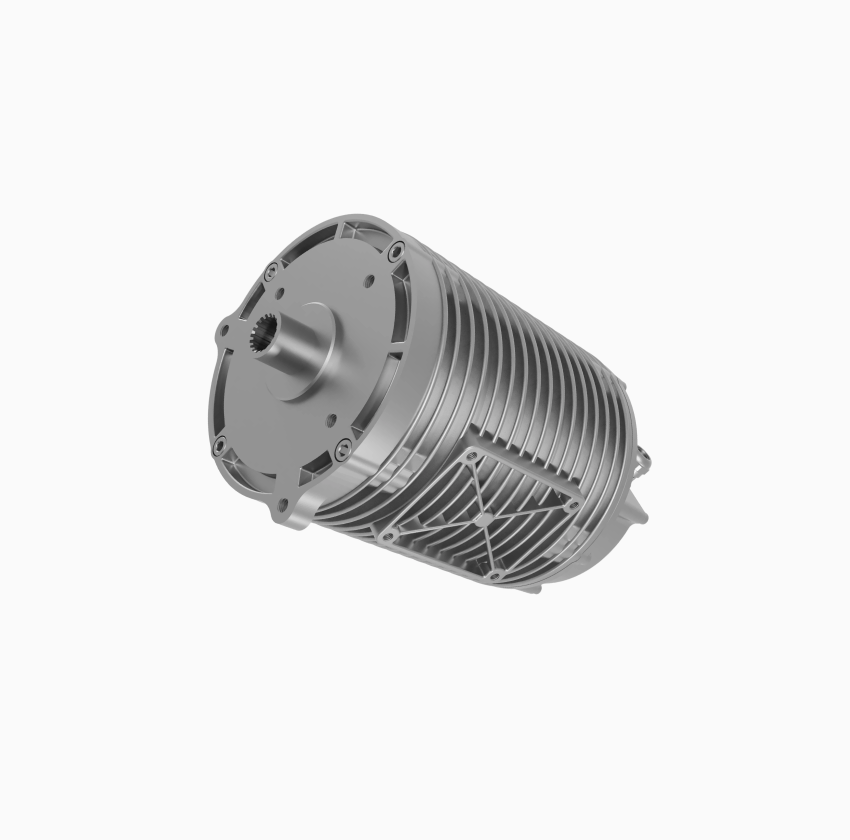
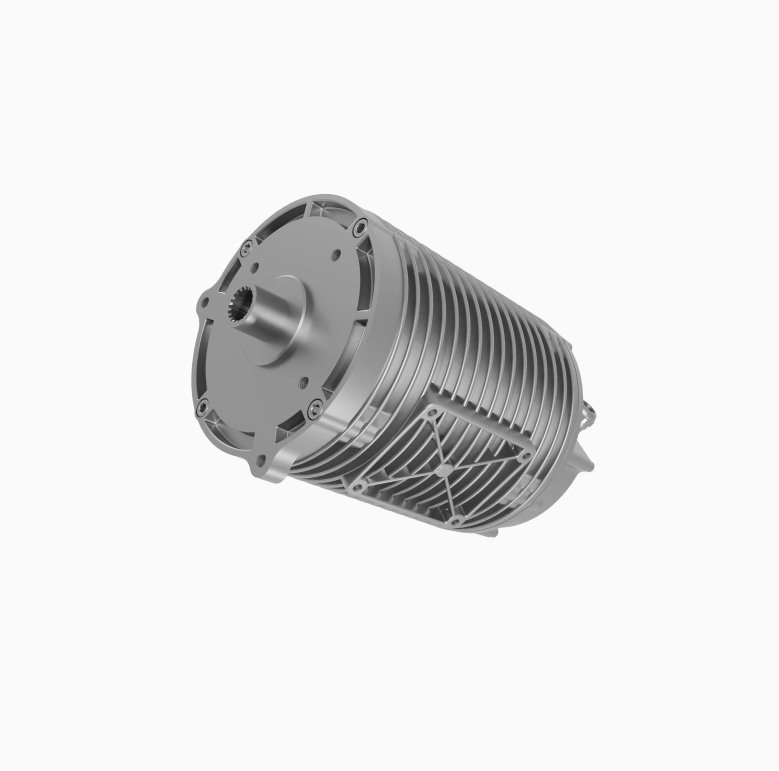
products: per-slot Figma orientations across all detail pages (desktop) - View-In-Motion thumbs + variant-panel thumbs baked at each slot's own scaleY/rotate; rf33/86 housing + /90 squat thumbs, rf55/66/pt500 own vim; heroes exported per placed node

Changed region(s): [[0.2465, 0.249, 0.7702, 0.716], [0.4313, 0.4669, 0.4621, 0.4981], [0.3389, 0.4669, 0.3697, 0.4981]]

diff --git a/src/data/products/details.js b/src/data/products/details.js
@@ -40,9 +40,14 @@ const APPS = [
 const APPS6 = [APPS[0], APPS[2], APPS[3], APPS[4], APPS[6], APPS[5]]
 
 const sketch = [RF + 'sketch-front.png', RF + 'sketch-side.png']
-// The two View-In-Motion thumbnails on the RF-family artboards are the family's own hero render shown
-// twice (Figma nodes are the same "49bc91be" motor), so the gallery reuses the exact hero export.
-const gallery = [RF + 'hero.png', RF + 'hero.png']
+const gallery = [RF + 'hero.png', RF + 'hero.png'] // mobile fallback gallery (mobile is untouched this pass)
+
+// DESKTOP per-slot renders, exported PLACED from Figma so each carries its own baked orientation
+// (the same asset is placed at a different scaleY/rotate per slot). The View-In-Motion thumbs (vim) and
+// the variant-panel thumb are the standard "49bc91be" motor across all RF families except RF 66 (which
+// uses its own squat renders), so rf15/22/33/55 share these; see per-family wiring below.
+const STD_VIM = [RF + 'vim-1.png', RF + 'vim-2.png'] // thumb1 = hero orientation, thumb2 = distinct (rotate -37.37 + overlay)
+const STD_THUMB = RF + 'thumb.png' // variant-panel thumbnail, baked at scaleY(-1) rotate(180)
 
 // Build one variant. `voltage/power/torque` are the 3 hero spec boxes; the rest fill the technical table
 // and the VIEW SPECIFICATIONS modal.
@@ -108,39 +113,39 @@ export const detailBySlug = {
   // RF 15 (Figma board 14394-2054): /42 and /60. Figma shows them identical except efficiency
   // (/42 >94%, /60 >92%) — flagged for Tushar as likely placeholder duplication.
   rf15: mkDetail('rf15', 'Product/ RF Series/ RF 15', [
-    mkVariant('RF 15/42', { hero: RF + 'hero.png', thumb: RF + 'thumb.png', note: SAME_DIE, voltage: '48 V / 72 V', power: '1.5 kW', torque: '6.5 Nm', peakPower: '3 kW', peakTorque: '18 Nm', peakSpeed: '5000 RPM', efficiency: '>94%', mass: '6.5 Kg' }),
-    mkVariant('RF 15/60', { hero: RF + 'hero.png', thumb: RF + 'thumb.png', note: SAME_DIE, voltage: '48 V / 72 V', power: '1.5 kW', torque: '6.5 Nm', peakSpeed: '5000 RPM', efficiency: '>92%', mass: '6.5 Kg' }),
-  ], { vim: [RF + 'vim-1.png', RF + 'vim-2.png'] }),
+    mkVariant('RF 15/42', { hero: RF + 'hero.png', thumb: STD_THUMB, note: SAME_DIE, voltage: '48 V / 72 V', power: '1.5 kW', torque: '6.5 Nm', peakPower: '3 kW', peakTorque: '18 Nm', peakSpeed: '5000 RPM', efficiency: '>94%', mass: '6.5 Kg' }),
+    mkVariant('RF 15/60', { hero: RF + 'hero.png', thumb: STD_THUMB, note: SAME_DIE, voltage: '48 V / 72 V', power: '1.5 kW', torque: '6.5 Nm', peakSpeed: '5000 RPM', efficiency: '>92%', mass: '6.5 Kg' }),
+  ], { vim: STD_VIM }),
   // RF 22 (Figma board 14394-2055): three variants /42, /60, /86. Figma shows near-identical specs
   // across all three (only efficiency differs) — flagged for Tushar as likely placeholder duplication.
   // /86 uses its OWN distinct-housing render (Figma node 14342:11384, exported with the studio-backdrop
   // layer excluded → clean cut-out); /42 & /60 share the standard render. Own technical sketch used.
   rf22: mkDetail('rf22', 'Product/ RF Series/ RF 22', [
-    mkVariant('RF 22/42', { hero: RF22 + 'hero.png', note: SAME_DIE, voltage: '48 V / 72 V', power: '2.2 kW', torque: '9.5 Nm', peakSpeed: '5000 RPM', efficiency: '>94%', mass: '6.5 Kg' }),
-    mkVariant('RF 22/60', { hero: RF22 + 'hero.png', note: SAME_DIE, voltage: '48 V / 72 V', power: '2.2 kW', torque: '9.5 Nm', peakSpeed: '5000 RPM', efficiency: '>92%', mass: '6.5 Kg' }),
-    mkVariant('RF 22/86', { hero: RF22 + 'hero-86.png', note: DISTINCT_HOUSING, voltage: '48 V / 72 V', power: '2.2 kW', torque: '9.5 Nm', peakSpeed: '5000 RPM', efficiency: '>94%', mass: '6.5 Kg' }),
-  ], { gallery: [RF22 + 'hero.png', RF22 + 'hero.png'], sketch: [RF22 + 'sketch-1.png', RF22 + 'sketch-2.png'] }),
+    mkVariant('RF 22/42', { hero: RF22 + 'hero.png', thumb: STD_THUMB, note: SAME_DIE, voltage: '48 V / 72 V', power: '2.2 kW', torque: '9.5 Nm', peakSpeed: '5000 RPM', efficiency: '>94%', mass: '6.5 Kg' }),
+    mkVariant('RF 22/60', { hero: RF22 + 'hero.png', thumb: STD_THUMB, note: SAME_DIE, voltage: '48 V / 72 V', power: '2.2 kW', torque: '9.5 Nm', peakSpeed: '5000 RPM', efficiency: '>92%', mass: '6.5 Kg' }),
+    mkVariant('RF 22/86', { hero: RF22 + 'hero-86.png', thumb: STD_THUMB, note: DISTINCT_HOUSING, voltage: '48 V / 72 V', power: '2.2 kW', torque: '9.5 Nm', peakSpeed: '5000 RPM', efficiency: '>94%', mass: '6.5 Kg' }),
+  ], { vim: STD_VIM, gallery: [RF22 + 'hero.png', RF22 + 'hero.png'], sketch: [RF22 + 'sketch-1.png', RF22 + 'sketch-2.png'] }),
   // RF 33 (Figma board 14378-3788): /60, /86, /90. Figma gives each variant its OWN render: /60 the
   // standard finned motor, /86 the finned-housing render (same "Final 1 2" art as RF 22/86), /90 the
   // squat cylinder (same "014455d6" art as RF 66). /60 & /86 share specs; /90 differs (6500 RPM, 13.6 Kg).
   rf33: mkDetail('rf33', 'Product/ RF Series/ RF 33', [
-    mkVariant('RF 33/60', { hero: RF33 + 'hero.png', note: SAME_DIE, voltage: '48 V / 72 V', power: '3.3 kW', torque: '10.5 Nm', peakSpeed: '5000 RPM', efficiency: '>94%', mass: '7.7 Kg' }),
-    mkVariant('RF 33/86', { hero: RF33 + 'hero-86.png', note: DISTINCT_HOUSING, voltage: '48 V / 72 V', power: '3.3 kW', torque: '10.5 Nm', peakSpeed: '5000 RPM', efficiency: '>94%', mass: '7.7 Kg' }),
-    mkVariant('RF 33/90', { hero: RF33 + 'hero-90.png', note: DISTINCT_HOUSING, voltage: '48 V / 72 V', power: '3.3 kW', torque: '10.5 Nm', peakSpeed: '6500 RPM', efficiency: '>94%', mass: '13.6 Kg' }),
-  ], { gallery: [RF33 + 'hero.png', RF33 + 'hero.png'], sketch: [RF33 + 'sketch-1.png', RF33 + 'sketch-2.png'] }),
+    mkVariant('RF 33/60', { hero: RF33 + 'hero.png', thumb: STD_THUMB, note: SAME_DIE, voltage: '48 V / 72 V', power: '3.3 kW', torque: '10.5 Nm', peakSpeed: '5000 RPM', efficiency: '>94%', mass: '7.7 Kg' }),
+    mkVariant('RF 33/86', { hero: RF33 + 'hero-86.png', thumb: RF33 + 'thumb-86.png', note: DISTINCT_HOUSING, voltage: '48 V / 72 V', power: '3.3 kW', torque: '10.5 Nm', peakSpeed: '5000 RPM', efficiency: '>94%', mass: '7.7 Kg' }),
+    mkVariant('RF 33/90', { hero: RF33 + 'hero-90.png', thumb: RF33 + 'thumb-90.png', note: DISTINCT_HOUSING, voltage: '48 V / 72 V', power: '3.3 kW', torque: '10.5 Nm', peakSpeed: '6500 RPM', efficiency: '>94%', mass: '13.6 Kg' }),
+  ], { vim: STD_VIM, gallery: [RF33 + 'hero.png', RF33 + 'hero.png'], sketch: [RF33 + 'sketch-1.png', RF33 + 'sketch-2.png'] }),
   // RF 55 (Figma board 14389-4682): single variant /86 — but the artboard KEEPS the Choose-The-Variant
   // panel (one row) and bottom-left gallery, unlike AF 58 / PT-500. showPanel forces that RF-series layout.
   // Hero reuses clean RF15 render; own sketch.
   rf55: mkDetail('rf55', 'Product/ RF Series/ RF 55', [
-    mkVariant('RF 55/86', { hero: RF55 + 'hero.png', note: DISTINCT_HOUSING, applications: APPS6, voltage: '48 V / 72 V', power: '5.5 kW', torque: '10.5 Nm', peakSpeed: '5000 RPM', efficiency: '>94%', mass: '10.5 Kg' }),
-  ], { showPanel: true, gallery: [RF55 + 'hero.png', RF55 + 'hero.png'], sketch: [RF55 + 'sketch.png'] }),
+    mkVariant('RF 55/86', { hero: RF55 + 'hero.png', thumb: STD_THUMB, note: DISTINCT_HOUSING, applications: APPS6, voltage: '48 V / 72 V', power: '5.5 kW', torque: '10.5 Nm', peakSpeed: '5000 RPM', efficiency: '>94%', mass: '10.5 Kg' }),
+  ], { showPanel: true, vim: STD_VIM, gallery: [RF55 + 'hero.png', RF55 + 'hero.png'], sketch: [RF55 + 'sketch.png'] }),
   // RF 66 (Figma board 14393-7232): /70 and /90 — distinct real specs. RF 66 has its OWN render (the
   // squat finned cylinder, Figma "014455d6" node 14393:6358, exported transparent) shared by both
   // variants. Apps are the six-item RF 55/66 list. /90 uses its own sketch node (14393:6490).
   rf66: mkDetail('rf66', 'Product/ RF Series/ RF 66', [
-    mkVariant('RF 66/70', { hero: RF66 + 'hero.png', note: SAME_DIE, applications: APPS6, voltage: '48 V / 72 V', power: '12.5 kW', torque: '14 Nm', peakSpeed: '6500 RPM', efficiency: '>92%', mass: '13.6 Kg' }),
-    mkVariant('RF 66/90', { hero: RF66 + 'hero.png', sketch: [RF66 + 'sketch-90.png'], note: SAME_DIE, applications: APPS6, voltage: '48 V / 72 V', power: '14 kW', torque: '16 Nm', peakSpeed: '6500 RPM', efficiency: '>93%', mass: '14.5 Kg' }),
-  ], { gallery: [RF66 + 'hero.png', RF66 + 'hero.png'], sketch: [RF66 + 'sketch.png'] }),
+    mkVariant('RF 66/70', { hero: RF66 + 'hero.png', thumb: RF66 + 'thumb.png', note: SAME_DIE, applications: APPS6, voltage: '48 V / 72 V', power: '12.5 kW', torque: '14 Nm', peakSpeed: '6500 RPM', efficiency: '>92%', mass: '13.6 Kg' }),
+    mkVariant('RF 66/90', { hero: RF66 + 'hero.png', thumb: RF66 + 'thumb.png', sketch: [RF66 + 'sketch-90.png'], note: SAME_DIE, applications: APPS6, voltage: '48 V / 72 V', power: '14 kW', torque: '16 Nm', peakSpeed: '6500 RPM', efficiency: '>93%', mass: '14.5 Kg' }),
+  ], { vim: [RF66 + 'vim-1.png', RF66 + 'vim-2.png'], gallery: [RF66 + 'hero.png', RF66 + 'hero.png'], sketch: [RF66 + 'sketch.png'] }),
   // Antarix AF 58 axial-flux motor (Figma node 14394-2056). Hero Torque box shows PEAK (60 Nm); the
   // technical table shows Rated Torque (25 Nm). Single-variant, so no Choose-Variant panel.
   af58: mkDetail('af58', 'Product/ AF Series/ AF 58', [
@@ -171,7 +176,7 @@ export const detailBySlug = {
         { label: 'Other Industrial Tools', image: PTA('other-tools.png') },
       ],
     }),
-  ], { gallery: [PT + 'hero.png', PT + 'hero.png'], sketch: [PT + 'sketch.png'], heroClass: 'xl:top-110 xl:left-690 xl:h-795 xl:w-795' }),
+  ], { vim: [PT + 'vim-1.png', PT + 'vim-2.png'], gallery: [PT + 'hero.png', PT + 'hero.png'], sketch: [PT + 'sketch.png'], heroClass: 'xl:top-110 xl:left-690 xl:h-795 xl:w-795' }),
 }
 
 export const productDetail = (slug) => detailBySlug[slug]
